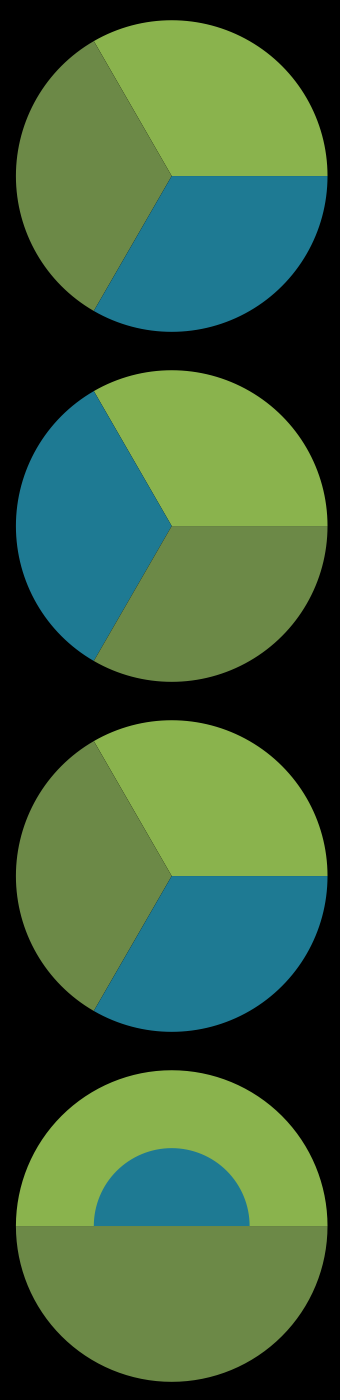
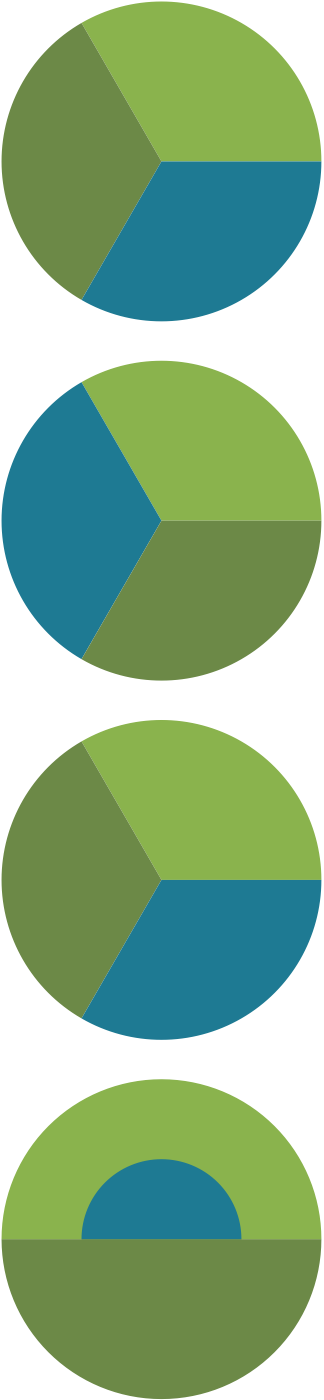
Use transparent background for ntina graphics

diff --git a/index.html b/index.html
@@ -6,7 +6,7 @@
   <link rel="stylesheet" href="styles.css">
   <link rel="icon" href="files/icon.ico">
   <script src="script.js"></script>
-  <title>spring 2024 final crit</title>
+  <title>spring 2024</title>
 </head>
 
 <body onload="
